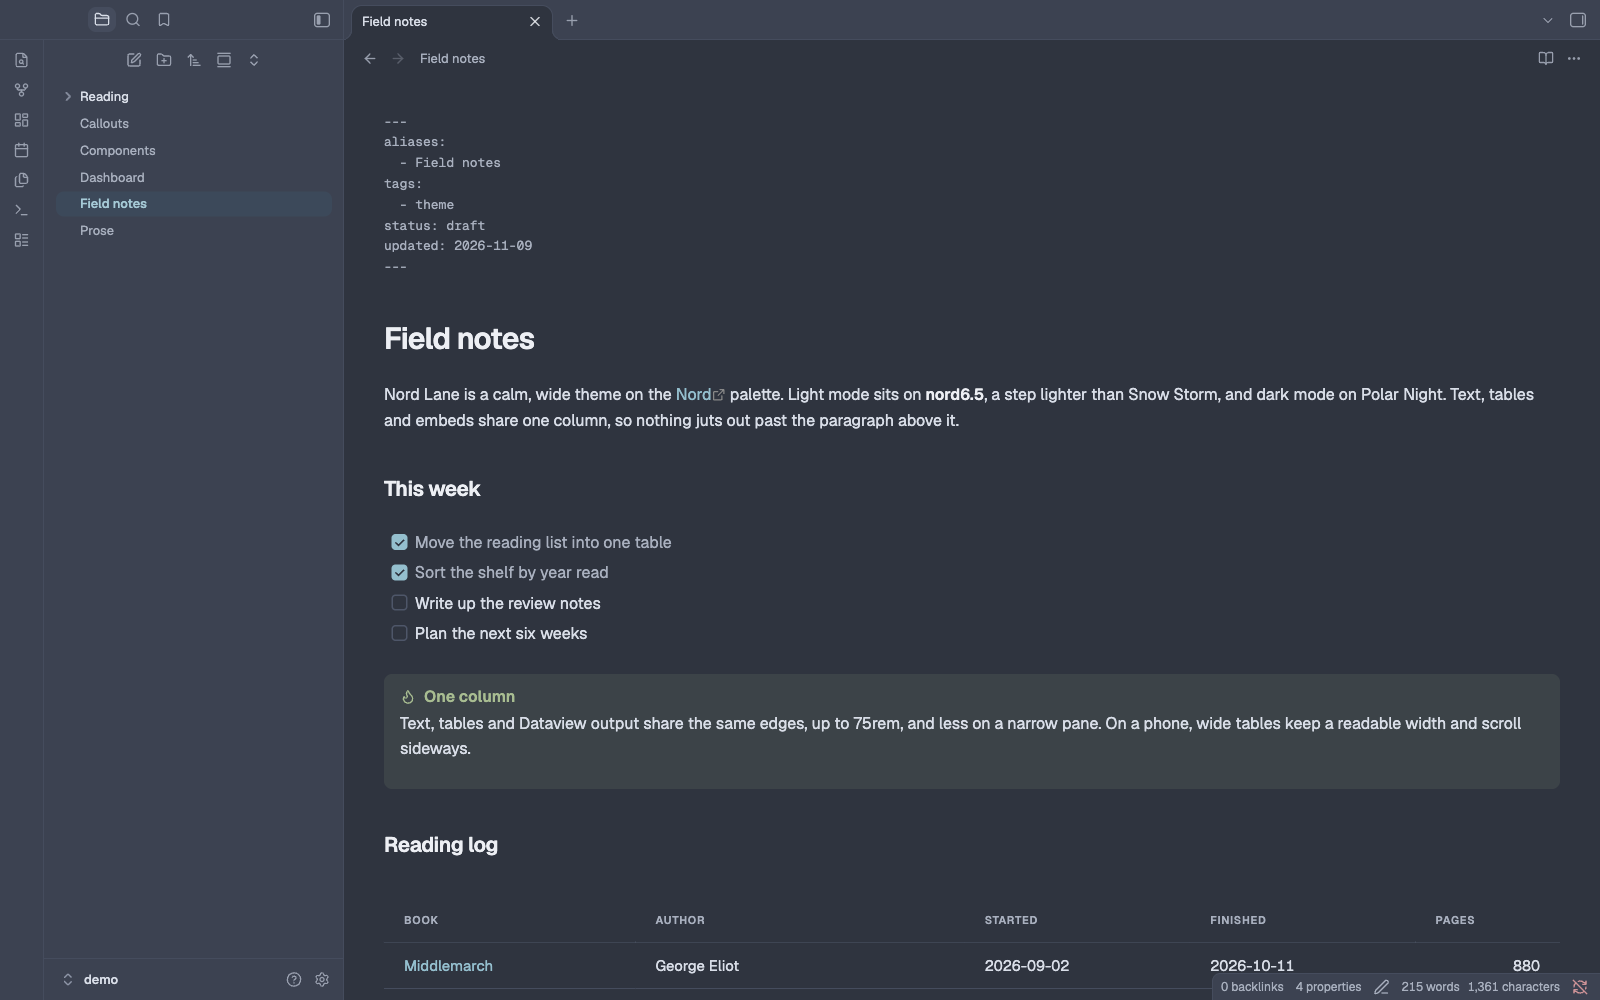
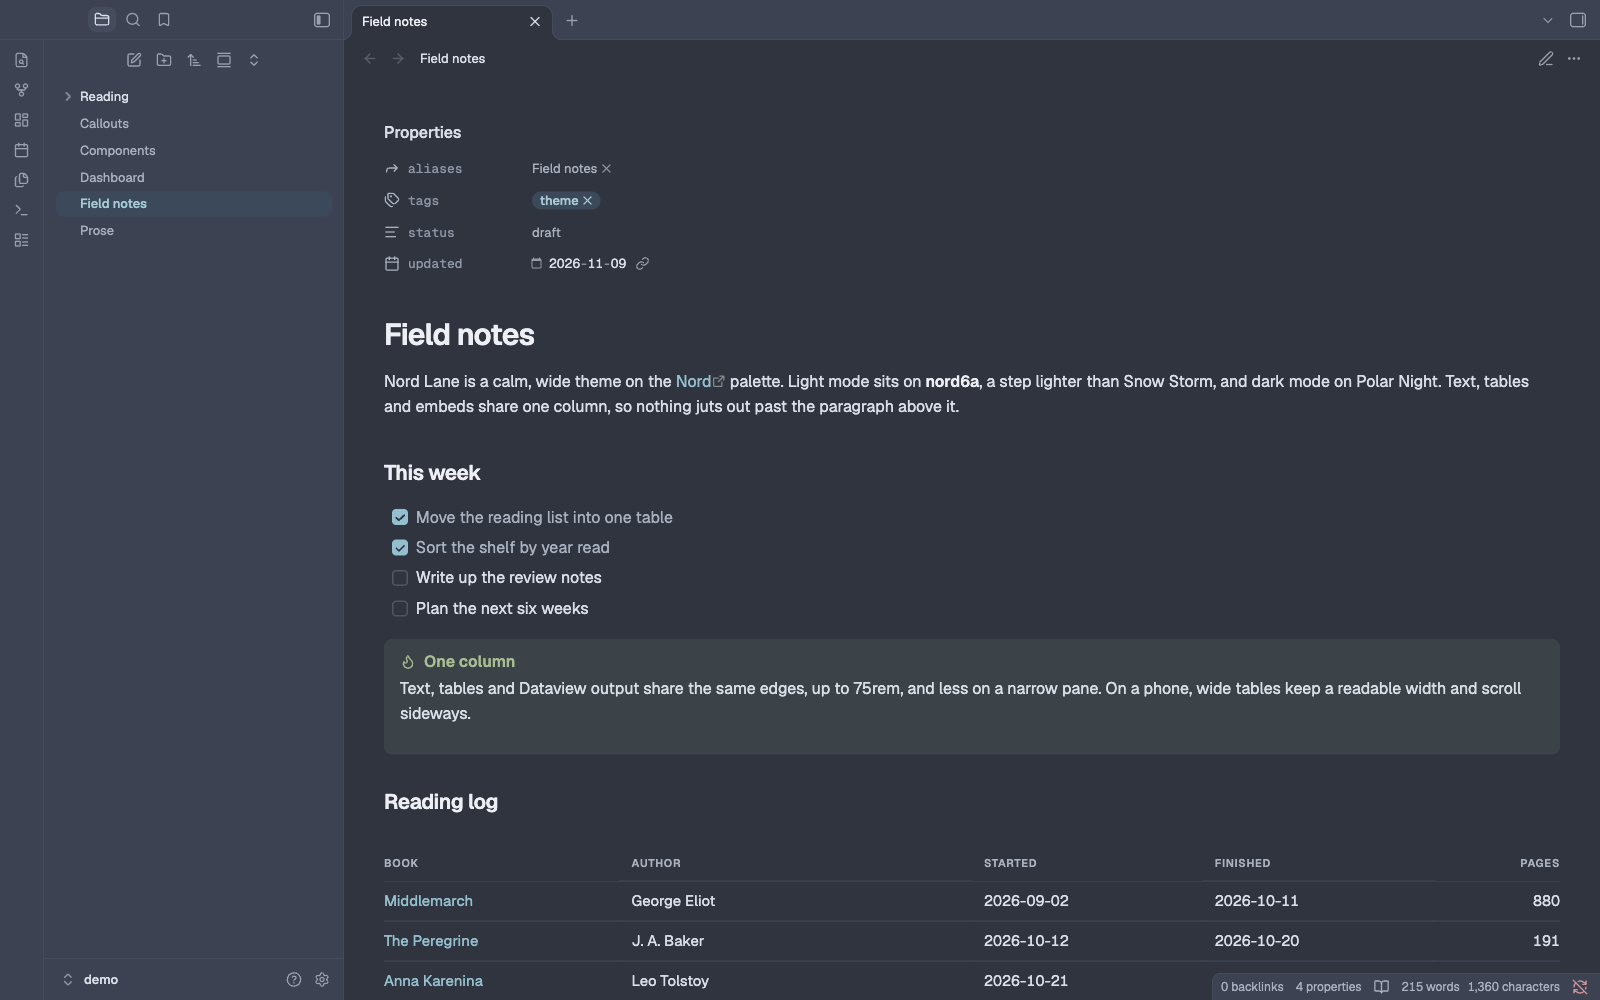
docs(readme): lead with screenshots of the theme
The README was mostly text, with two stacked screenshots. It now opens
with the same note in light and dark, gives each feature a picture
(one column, the palette, phones in an iPhone frame, the component
classes) and turns the options into a table.

The demo's Cyrillic section shows Russian and Serbian and no longer
names devices, and the screenshots are retaken from it.

diff --git a/README.md b/README.md
@@ -1,61 +1,101 @@
 # Nord Lane
 
-A calm, wide Obsidian theme on the [Nord](https://www.nordtheme.com) palette, with Geist and Geist Mono built in, Cyrillic included.
+A calm, wide Obsidian theme on the [Nord](https://www.nordtheme.com) palette. Text, tables, Dataview output and embeds line up in one column, in light and dark, and your phone shows exactly what your desktop does.
 
-![Nord Lane, light](screenshots/light.png)
+**[Install](#install)** · [Options](#options) · [Components](docs/components.md) · [Changelog](CHANGELOG.md)
 
-![Nord Lane, dark](screenshots/dark.png)
+![The same note in Nord Lane, light on the left and dark on the right](screenshots/hero.png)
 
-## What it does
+<sub>The demo vault's Field notes in reading view. Full size: [light](screenshots/light.png), [dark](screenshots/dark.png).</sub>
 
-- **Nord, light and dark.** Light mode puts every background on nord6a (`#F6F7FA`, halfway between nord6 and white) and separates areas with nord4 hairlines. Dark mode is Polar Night. Accents come from Frost and states from Aurora; where a Nord colour is too light for small text, the text takes a darker step of the same hue.
-- **One column.** Text, tables, Dataview output and embeds share the same edges, up to 75rem, and less on a narrower pane. Live Preview and reading view look the same.
-- **One table style** for markdown tables, Dataview tables and the Live Preview table editor: 15 px text, quiet uppercase headers, hairline rows, tabular numbers. Dataview's `-` placeholders show as a faint dash instead of an empty bullet. In a pane under 700 px, tables drop to 14 px, and wide ones keep a readable width and scroll sideways.
-- **The same type everywhere.** Geist and Geist Mono are embedded, Latin and Cyrillic, so the iPhone and iPad render exactly what the Mac does.
-- **Quiet frontmatter.** If you show properties as YAML source, the frontmatter is 13 px monospace in muted ink.
+- **One column** for text, tables, Dataview output and embeds, up to 75rem.
+- **One table style**, whether a table comes from Markdown, Dataview or the table editor.
+- **Nord in light and dark**, with every text colour at WCAG AA contrast.
+- **Geist and Geist Mono built in**, Latin and Cyrillic, the same on every device.
+- **Phones and narrow panes** follow the width of the note pane, not the screen.
+- **Dashboard and card classes** for your own dataviewjs views, if you want them.
+
+## One column
+
+Text, tables, Dataview output and embeds share the same edges, up to 75rem, and less on a narrower pane, so nothing juts out past the paragraph above it. Live Preview and reading view look the same.
+
+<p align="center"><img src="screenshots/one-column.png" alt="Text, a table, a callout, Dataview cards and an embed, all between the same two edges" width="560"></p>
+
+## One table style
+
+Markdown tables, Dataview tables and the Live Preview table editor share one look: 15 px text, quiet uppercase headers, hairline rows and tabular numbers. Dataview's `-` placeholders show as a faint dash instead of an empty bullet. In a pane under 700 px, tables drop to 14 px, and wide ones keep a readable width and scroll sideways.
+
+## Nord, light and dark
+
+Light mode puts every background on nord6a (`#F6F7FA`), a Snow Storm step halfway between nord6 and white, and separates areas with nord4 hairlines. Dark mode is Polar Night. Accents come from Frost and states from Aurora; where a Nord colour is too light for small text, the text takes a darker step of the same hue.
+
+![The Nord palette with nord6a added, and the same states and text roles in light and dark](screenshots/palette.png)
+
+## The same type everywhere
+
+Geist and Geist Mono are embedded with Latin and Cyrillic, Russian and Serbian alike, so phones and tablets render exactly what the desktop does. Layouts respond to the width of the note pane (container queries), so a narrow split on the desktop behaves like a phone, and touch targets are 44 px.
+
+<p align="center">
+  <img src="screenshots/phone-light.png" alt="A phone in light mode: a wide table scrolls sideways above Russian and Serbian text" width="260">
+  &nbsp;&nbsp;
+  <img src="screenshots/phone-dark.png" alt="A phone in dark mode: the stat strip folds to two across" width="260">
+</p>
+
+## Dashboards and cards
+
+`nl-*` classes give your dataviewjs views a page head, stat strips, pills, tables, heatmaps and timelines, and `gc-*` classes make cover cards for collections. They do nothing until a view uses them. [docs/components.md](docs/components.md) shows the markup each one expects, and `demo/Components.md` renders them all.
+
+![The component classes in the demo vault: a page head, stats, a grouped table with pills, and cover cards](screenshots/components.png)
+
+## Also
+
+- **Quiet properties.** Properties follow Obsidian's "Properties in document" setting and are set quietly: 13 px, monospace keys. Shown as YAML source, the frontmatter is 13 px monospace in muted ink.
 - **A heat calendar.** With the [Calendar](https://github.com/liamcain/obsidian-calendar-plugin) plugin, each day is a square shaded by how much its note holds, and the month fits any sidebar width.
-- **Phones and narrow panes.** Layouts respond to the width of the note pane (container queries), so a narrow split on the Mac behaves like a phone.
-- **Extras for dataviewjs dashboards.** `nl-*` classes (stats, tables, heatmaps, timelines) and `gc-*` cover cards for collections. They do nothing unless your own views use them; [docs/components.md](docs/components.md) shows the markup each one expects.
 
 ## Install
 
-Until it's in the community theme browser:
+Nord Lane needs Obsidian 1.5 or later. Until it's in the community theme browser:
 
 1. Download [`theme.css`](theme.css) and [`manifest.json`](manifest.json).
-2. Put both in `<your vault>/.obsidian/themes/Nord Lane/`.
-3. Settings → Appearance → Themes → Nord Lane.
+2. Put both in a folder named `Nord Lane` inside your vault's themes folder: `<your vault>/.obsidian/themes/Nord Lane/`. Keep that exact name: it's the theme's name, and Obsidian's theme browser installs into the same folder.
+3. Open Settings → Appearance and choose Nord Lane under Themes.
 
 Or clone the repo and run `python3 build.py /path/to/vault`.
 
 ## Options
 
-- `cssclasses: [full]` uses the whole pane width; `cssclasses: [table-mono]` sets a note's tables in monospace.
-- `cssclasses: [prose]` keeps reading text to a comfortable measure: paragraphs, lists, headings and quotes stop at `--nl-prose-max` (46rem, about 95 characters), while tables, code, callouts, embeds and Dataview output keep the full column, all on the same left edge.
-- `cssclasses: [hide-properties]` keeps a note's properties out of reading view (dashboards with `cssclasses: [dashboard]` do this too).
-- With the [Style Settings](https://github.com/mgmeyers/obsidian-style-settings) plugin: Settings, Style Settings, Nord Lane. You can set the column width, table bleed, prose measure, table text size and frontmatter size, and turn on the Meta strip, which shows a `## Meta` section as one quiet strip in reading view.
-- Without it, set the variables from a CSS snippet:
+| What | How |
+|---|---|
+| Use the whole pane width in one note | `cssclasses: [full]` |
+| Set one note's tables in monospace | `cssclasses: [table-mono]` |
+| Keep reading text to a comfortable measure | `cssclasses: [prose]` |
+| Keep one note's properties out of reading view | `cssclasses: [hide-properties]`, or `[dashboard]` |
 
-  ```css
-  body {
-    --nl-col-max: 60rem; /* the column, 75rem by default */
-    --nl-bleed: 2rem;    /* how far tables and Dataview may hang past the text, 0 by default */
-    --nl-prose-max: 40rem; /* the prose measure, 46rem by default */
-    --table-text-size: 16px; /* 15px by default */
-    --nl-frontmatter-size: 14px; /* 13px by default */
-  }
-  ```
+`prose` stops paragraphs, lists, headings and quotes at `--nl-prose-max` (46rem, about 95 characters), while tables, code, callouts, embeds and Dataview output keep the full column, all on the same left edge.
 
-**Size.** `theme.css` is about 225 KB, 163 KB of it the embedded fonts. Geist and Geist Mono each come in four subsets: Latin, Latin Extended (Central European accents such as č, ć, đ, š, ž), Cyrillic, and Cyrillic Extended (Ukrainian ґ, Kazakh letters). Obsidian loads it once. If you'd rather use fonts installed on your machine, `python3 build.py --no-fonts /path/to/vault` installs a 60 KB version.
+With the [Style Settings](https://github.com/mgmeyers/obsidian-style-settings) plugin, open Settings, Style Settings, Nord Lane to set the column width, table bleed, prose measure, table text size and frontmatter size, and to turn on the Meta strip, which shows a `## Meta` section as one quiet strip in reading view. Without it, set the variables from a CSS snippet:
 
-**Accessibility.** In both modes every text colour reaches WCAG AA contrast on the backgrounds it's used on: 4.5:1 for text, including callout titles on their own tint and day numbers on heat cells, and 3:1 for faint secondary labels. `python3 tools/contrast.py` checks this, and so does CI.
+```css
+body {
+  --nl-col-max: 60rem;         /* the column, 75rem by default */
+  --nl-bleed: 2rem;            /* how far tables and Dataview may hang past the text, 0 by default */
+  --nl-prose-max: 40rem;       /* the prose measure, 46rem by default */
+  --table-text-size: 16px;     /* 15px by default */
+  --nl-frontmatter-size: 14px; /* 13px by default */
+}
+```
 
-Tested with Obsidian 1.15 on macOS, in Live Preview and reading view, light and dark, and in Obsidian's iPhone emulation.
+## Size, accessibility and testing
+
+- **Size.** `theme.css` is about 225 KB, 163 KB of it the embedded fonts. Geist and Geist Mono each come in four subsets: Latin, Latin Extended (Central European accents such as č, ć, đ, š, ž), Cyrillic, and Cyrillic Extended (Ukrainian ґ, Kazakh letters). Obsidian loads it once. If you'd rather use fonts installed on your machine, `python3 build.py --no-fonts /path/to/vault` installs a 60 KB version.
+- **Accessibility.** In both modes every text colour reaches WCAG AA contrast on the backgrounds it's used on: 4.5:1 for text, including callout titles on their own tint and day numbers on heat cells, and 3:1 for faint secondary labels. `python3 tools/contrast.py` checks this, and so does CI.
+- **Testing.** Tested with Obsidian 1.15 on desktop, in Live Preview and reading view, light and dark, and in Obsidian's mobile emulation. Real phones and tablets are next ([#13](https://github.com/asilachev/nord-lane-obsidian/issues/13)).
 
 ## Develop
 
 - Edit `src/theme.src.css`, then run `python3 build.py`. It embeds the fonts and writes `theme.css` and `manifest.json` here. Pass vault paths to install the theme into those vaults too.
 - `demo/` is a small vault with sample notes for checking changes and taking screenshots: `python3 build.py demo`, then open the `demo` folder as a vault.
-- `tools/live/` checks the theme in the real app (Node 22 or later). `./launch.sh` starts a separate Obsidian on the demo vault, with its own settings folder and a DevTools port. Then `node cdp.mjs run view.mjs "Field notes.md" source 1600 1000 light` saves one screen to `tools/live/shots/light.png`; `preview` gives reading view. `node cdp.mjs run phone.mjs 390 844 phone "Field notes.md=field"` does the iPhone layout, and `node cdp.mjs eval 'app.emulateMobile(false)'` goes back. `./reload-theme.sh` picks up a new build, and `./launch.sh stop` quits it. For your own vault, point `NL_VAULT` at a copy, never at a vault you have open.
+- `tools/live/` checks the theme in the real app (Node 22 or later). `./launch.sh` starts a separate Obsidian on the demo vault, with its own settings folder and a DevTools port. Then `node cdp.mjs run view.mjs "Field notes.md" source 1600 1000 light` saves one screen to `tools/live/shots/light.png`; `preview` gives reading view. `node cdp.mjs run phone.mjs 390 844 phone "Field notes.md=field"` does the phone layout, and `node cdp.mjs eval 'app.emulateMobile(false)'` goes back. `./reload-theme.sh` picks up a new build, and `./launch.sh stop` quits it. For your own vault, point `NL_VAULT` at a copy, never at a vault you have open.
 
 ## Credits
 

diff --git a/demo/Field notes.md b/demo/Field notes.md
@@ -30,9 +30,11 @@ Nord Lane is a calm, wide theme on the [Nord](https://www.nordtheme.com) palette
 | [[Anna Karenina]] | Leo Tolstoy | 2026-10-21 | | 864 |
 | [[Walden]] | Henry David Thoreau | | | 352 |
 
-### Кириллица
+### Кириллица · Ћирилица
 
-Тот же шрифт и для кириллицы: Geist с кириллическими глифами встроен в тему, поэтому iPhone и iPad показывают текст так же, как Mac.
+Тот же шрифт и для кириллицы: Geist с кириллическими глифами встроен в тему, поэтому телефон и планшет показывают текст так же, как компьютер.
+
+Љубазни фењерџија чађавог лица хоће да ми покаже штос.
 
 ## A small script
 

diff --git a/CHANGELOG.md b/CHANGELOG.md
@@ -25,6 +25,7 @@ All notable changes to Nord Lane. The format follows [Keep a Changelog](https://
 - The Properties view is set the same way in Live Preview, when properties are visible rather than shown as source: frontmatter-size text, monospace keys, muted, hairline dividers and a Nord hover.
 - The `## Meta` strip in reading view is opt-in: Style Settings, Nord Lane, Meta strip (it adds `nl-meta-strip` to the body). It was keyed on the heading's text and applied to every vault.
 - The added Snow Storm step `#F6F7FA` is called nord6a (it was nord6.5) in the README, the CSS comments and the demo vault, to match the other `nordX` names.
+- The README leads with screenshots: the same note in light and dark, the palette, the one-column layout, the phone layout and the component classes. The demo's Cyrillic section shows Russian and Serbian.
 
 ### Removed
 
